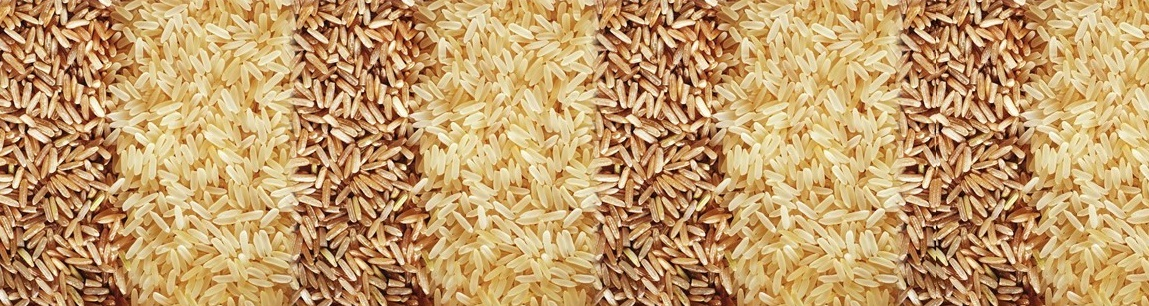
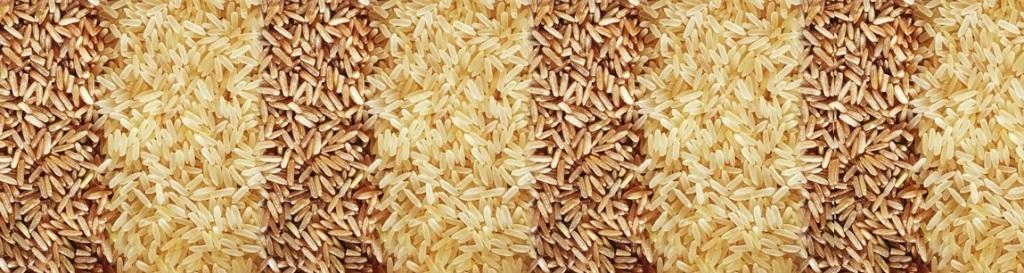
Changed Slider Image

diff --git a/contacts.htm b/contacts.htm
@@ -69,7 +69,7 @@
 		<div class="ism-slider" data-play_type="loop" data-interval="6000" id="main-slider">
 			<ol>
 				<li>
-					<img src="css/images/slides/_u/1502979928339_985735.jpg">
+					<img src="css/images/sliderimg1.jpg">
 					<div class="ism-caption ism-caption-0" data-delay='100'>PARBOILED RICE</div>
 					<div class="ism-caption ism-caption-1" data-delay='200'>Our range of products include rice, golden sella rice, indian basmati rice, indian rice, non basmati rice and steam basmati rice..</div>
 			  </li>
